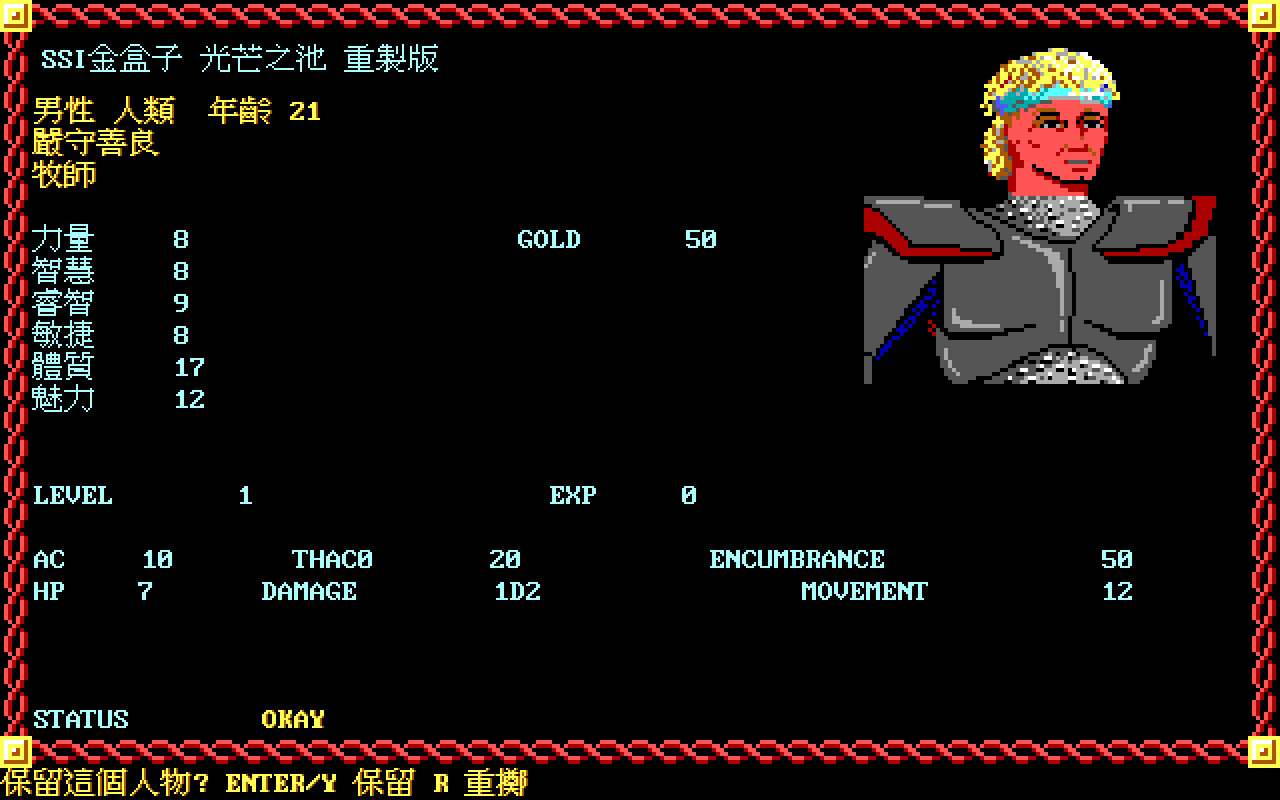
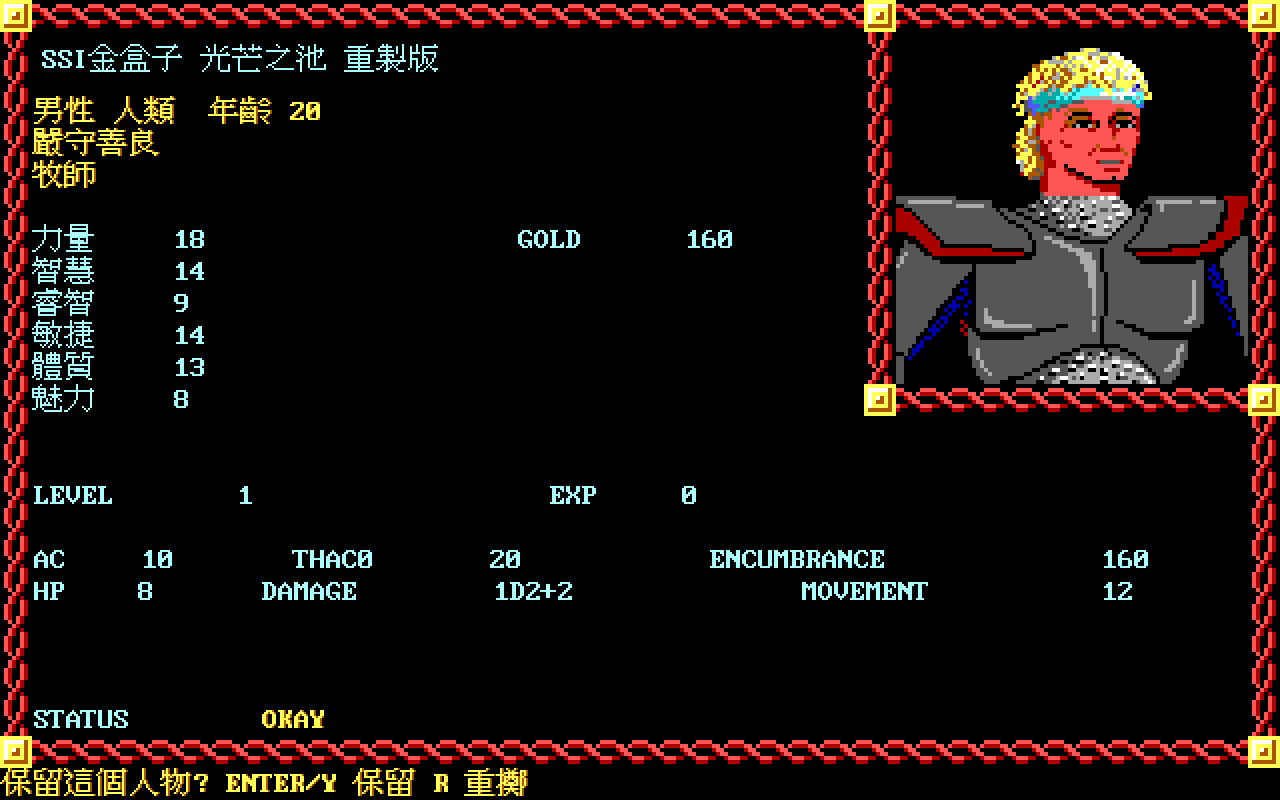
polish: restore original portrait frame

diff --git a/cmd/pool-game/portrait_frame_test.go b/cmd/pool-game/portrait_frame_test.go
@@ -1,0 +1,119 @@
+package main
+
+import (
+	"path/filepath"
+	"testing"
+
+	"github.com/hajimehoshi/ebiten/v2"
+	"github.com/wicanr2/Pool-of-Radiance-cht/internal/assets"
+	"github.com/wicanr2/Pool-of-Radiance-cht/internal/gamepack"
+	poolsave "github.com/wicanr2/Pool-of-Radiance-cht/internal/save"
+)
+
+// 原版人物資料頁的肖像框與整頁外框共用上、右兩邊；以下位置釘住新增的
+// 左、下兩邊及三個交點，避免只畫一個看似相近的素色矩形（spec 130）。
+func TestSheetPortraitFrameSymbolsMatchTheDOSShot(t *testing.T) {
+	zipPath := filepath.Join("..", "..", "Pool of Radiance (1988).zip")
+	_, band4, err := gamepack.ReadDOSGlobalSymbolBands(zipPath)
+	if err != nil {
+		t.Skipf("DOS ZIP unavailable: %v", err)
+	}
+	width := int(band4.WidthUnits) * 8
+	if width != frameTileSize || int(band4.ItemCount) <= frameHorizontalItem {
+		t.Fatalf("第 4 帶是 %d 寬、%d item，接不上肖像框", width, band4.ItemCount)
+	}
+	symbol := func(item int) []uint8 {
+		base := item * width * frameTileSize
+		return band4.Pixels[base : base+width*frameTileSize]
+	}
+	shot := filepath.Join("..", "..", "docs", "reference", "original-dos",
+		"character-flow", "14-character-sheet.png")
+	cases := []struct {
+		name        string
+		item        int
+		column, row int
+	}{
+		{"左上交點", frameCornerItem, sheetPortraitLeftTileCol, 0},
+		{"左緣第一格", frameVerticalItem, sheetPortraitLeftTileCol, 1},
+		{"左緣最後一格", frameVerticalItem, sheetPortraitLeftTileCol, sheetPortraitBottomTileRow - 1},
+		{"左下交點", frameCornerItem, sheetPortraitLeftTileCol, sheetPortraitBottomTileRow},
+		{"下緣第一格", frameHorizontalItem, sheetPortraitLeftTileCol + 1, sheetPortraitBottomTileRow},
+		{"下緣最後一格", frameHorizontalItem, sheetPortraitRightTileCol - 1, sheetPortraitBottomTileRow},
+		{"右下交點", frameCornerItem, sheetPortraitRightTileCol, sheetPortraitBottomTileRow},
+	}
+	for _, testCase := range cases {
+		want, err := cropDOSShot(shot, testCase.column*frameTileSize,
+			testCase.row*frameTileSize, frameTileSize, frameTileSize)
+		if err != nil {
+			t.Fatal(err)
+		}
+		got := symbol(testCase.item)
+		if diff := firstDifference(got, want); diff >= 0 {
+			t.Errorf("%s（item %#x）第 %d 格不同：素材 %d、截圖 %d\n%s",
+				testCase.name, testCase.item, diff, got[diff], want[diff],
+				sideBySide(got, want))
+		}
+	}
+}
+
+// 框內剛好是 88×88 native pixels；以 selector 兩端與兩種語言實際走共用
+// renderer，確保外框不因肖像組合或繁中欄位而改變幾何。
+func TestSheetPortraitFrameFitsSelectorExtremesInBothLanguages(t *testing.T) {
+	zipPath := filepath.Join("..", "..", "Pool of Radiance (1988).zip")
+	application, err := newApp(zipPath, filepath.Join(t.TempDir(), "state.json"))
+	if err != nil {
+		t.Skipf("DOS ZIP unavailable: %v", err)
+	}
+	if sheetPortraitLeft != (sheetPortraitLeftTileCol+1)*frameTileSize*2 ||
+		sheetPortraitTop != frameTileSize*2 ||
+		sheetPortraitLeft+88*2 != sheetPortraitRightTileCol*frameTileSize*2 ||
+		sheetPortraitTop+88*2 != sheetPortraitBottomTileRow*frameTileSize*2 {
+		t.Fatal("88×88 肖像內容沒有精確貼齊框內四邊")
+	}
+	member := poolsave.Character{Name: "HERO", RaceID: "human", GenderID: "male",
+		ClassID: "fighter", AlignmentID: "lawful-good", Age: 21,
+		Abilities: [6]int{16, 12, 11, 14, 13, 8}, MaxHP: 8, CurrentHP: 8,
+		PortraitHead: 1, PortraitBody: 1, IconSize: 1}
+	for _, selectors := range [][2]uint8{{1, 1}, {14, 12}} {
+		portrait, err := application.loadPortrait(selectors[0], selectors[1])
+		if err != nil {
+			t.Fatal(err)
+		}
+		if got := portrait.Bounds().Size(); got.X != 88 || got.Y != 88 {
+			t.Fatalf("肖像 %d/%d 尺寸 %v，預期 88×88", selectors[0], selectors[1], got)
+		}
+		member.PortraitHead, member.PortraitBody = selectors[0], selectors[1]
+		for _, lang := range []language{languageEnglish, languageTraditionalChinese} {
+			application.language = lang
+			skin := application.currentTheme()
+			screen := ebiten.NewImage(logicalWidth, logicalHeight)
+			screen.Fill(skin.background)
+			application.drawFrame(screen, skin.foreground, skin.accent)
+			drawSheetFor(screen, application, member, portrait, skin.foreground, skin.accent)
+		}
+	}
+}
+
+// 88×88 肖像必須放進框內的 native (224,8)..(311,95)，不是從框的左緣
+// (216,8) 起畫；後者會把圖往左挪八格，再被左框裁掉（spec 130）。
+func TestSheetPortraitPixelsMatchTheDOSInterior(t *testing.T) {
+	zipPath := filepath.Join("..", "..", "Pool of Radiance (1988).zip")
+	parts, err := assets.ReadCreationPortraitParts(zipPath, 1, 1)
+	if err != nil {
+		t.Skipf("DOS ZIP unavailable: %v", err)
+	}
+	portrait, err := assets.ComposeCreationPortrait(parts)
+	if err != nil {
+		t.Fatal(err)
+	}
+	shot := filepath.Join("..", "..", "docs", "reference", "original-dos",
+		"character-flow", "14-character-sheet.png")
+	want, err := cropDOSShot(shot, 224, 8, 88, 88)
+	if err != nil {
+		t.Fatal(err)
+	}
+	if diff := firstDifference(portrait.Pixels, want); diff >= 0 {
+		t.Fatalf("肖像內部第 %d 格不同：素材 %d、原版畫面 %d", diff,
+			portrait.Pixels[diff], want[diff])
+	}
+}

diff --git a/cmd/pool-game/screen_frame.go b/cmd/pool-game/screen_frame.go
@@ -41,6 +41,10 @@ const (
 	// combatBoardRightTileCol 是戰場框右邊那一欄；它右邊到畫面右框之間
 	// 是資訊欄。
 	combatBoardRightTileCol = 22
+	// 人物資料頁右上肖像框的左欄與下列（spec 130）。上緣、右緣沿用外框。
+	sheetPortraitLeftTileCol   = 27
+	sheetPortraitBottomTileRow = 12
+	sheetPortraitRightTileCol  = 39
 )
 
 // drawFrame 畫畫面外框。band 4 沒載進來（測試的假 app、或原版 ZIP 不在）
@@ -66,6 +70,28 @@ func (a *app) drawCombatFrame(screen *ebiten.Image, foreground, accent color.Col
 	}
 	put(frameCornerItem, combatBoardRightTileCol, 0)
 	put(frameCornerItem, combatBoardRightTileCol, combatBottomTileRow)
+}
+
+// drawSheetPortraitFrame 補人物資料頁右上肖像框的左緣與下緣。原版上緣、右緣
+// 就是整頁外框，所以只補三個交點與兩段繩索，不把框烘進肖像資產（spec 130）。
+func (a *app) drawSheetPortraitFrame(screen *ebiten.Image) {
+	if a == nil || a.symbolBand4.ItemCount <= frameHorizontalItem {
+		return
+	}
+	palette := a.artPalette()
+	scale := logicalWidth / 320
+	put := func(item, column, row int) {
+		a.drawSymbol(screen, item, column*frameTileSize*scale, row*frameTileSize*scale, scale, palette)
+	}
+	put(frameCornerItem, sheetPortraitLeftTileCol, 0)
+	for row := 1; row < sheetPortraitBottomTileRow; row++ {
+		put(frameVerticalItem, sheetPortraitLeftTileCol, row)
+	}
+	put(frameCornerItem, sheetPortraitLeftTileCol, sheetPortraitBottomTileRow)
+	for column := sheetPortraitLeftTileCol + 1; column < sheetPortraitRightTileCol; column++ {
+		put(frameHorizontalItem, column, sheetPortraitBottomTileRow)
+	}
+	put(frameCornerItem, sheetPortraitRightTileCol, sheetPortraitBottomTileRow)
 }
 
 func (a *app) drawFrameWithBottom(screen *ebiten.Image, bottomRow int,
@@ -160,4 +186,3 @@ func drawPlainFrame(screen *ebiten.Image, title string, foreground, accent color
 	}
 	drawText(screen, title, 18, 26, foreground)
 }
-

diff --git a/cmd/pool-game/character_sheet.go b/cmd/pool-game/character_sheet.go
@@ -163,8 +163,8 @@ const (
 	sheetMovementValue = 550
 	sheetStatusLine  = 366
 	sheetStatusValue = 130
-	// 肖像的左上角（native 216,8）。
-	sheetPortraitLeft = 432
+	// 肖像內容的左上角（native 224,8）；native x=216..223 是框的左緣。
+	sheetPortraitLeft = 448
 	sheetPortraitTop  = 16
 )
 
@@ -228,8 +228,8 @@ func drawSheetFor(screen *ebiten.Image, a *app, member poolsave.Character,
 	drawText(screen, a.text(msgSheetStatus), sheetLeft, sheetStatusLine, foreground)
 	drawText(screen, sheet.Status, sheetStatusValue, sheetStatusLine, accent)
 
-	// 右上角的肖像。原版那一張佔 native x 216..311、y 8..103，
-	// 兩倍之後從 (432,16) 起。
+	// 右上角的肖像內容是 native x 224..311、y 8..95；框另由
+	// drawSheetPortraitFrame 疊在 x 216..319、y 0..103（spec 130）。
 	if portrait == nil {
 		portrait = a.portrait
 	}
@@ -239,6 +239,7 @@ func drawSheetFor(screen *ebiten.Image, a *app, member poolsave.Character,
 		op.GeoM.Translate(sheetPortraitLeft, sheetPortraitTop)
 		screen.DrawImage(portrait, op)
 	}
+	a.drawSheetPortraitFrame(screen)
 }
 
 // rolledCharacter 把剛擲出來的數值包成一個角色，資料頁的那幾格才算得出來。

diff --git a/docs/spec/130-character-sheet-layout.md b/docs/spec/130-character-sheet-layout.md
@@ -2,7 +2,7 @@
 
 狀態：READY（每一行與每一欄的位置、九個欄位的內容、建角當下那幾個值的來源）；
 DRAFT（`STATUS` 除了 `OKAY` 以外的字、`VIEW` 從冒險畫面進來時那一頁多了什麼）。
-日期：2026-09-08。
+日期：2026-09-14。
 
 ## 輸入
 
@@ -40,7 +40,14 @@ DRAFT（`STATUS` 除了 `OKAY` 以外的字、`VIEW` 從冒險畫面進來時那
 | `MOVEMENT` | 200 | 275 |
 | `STATUS` | 9 | 65 |
 
-肖像佔 native x 216..311、y 8..103。最下面那一列
+肖像的 88×88 內容佔 native x 224..311、y 8..95。肖像框與整頁外框共用上緣
+y 0..7 與右緣 x 312..319；新增的左緣是 x 216..223、下緣是 y 96..103，
+三個交點與繩索同樣使用 `8X8D1.DAX` block 202 的 item 20／21／22。
+`cmd/pool-game/portrait_frame_test.go` 逐像素證明內容位置與七個框 tile；先前把
+「肖像加框的 96×104 區域」簡寫成「肖像 x 216..311、y 8..103」，會把 88×88
+資產誤放到 x=216 並漏畫框，現已勘誤。
+
+最下面那一列
 `KEEP THIS CHARACTER? YES NO` 在框外（native 192..198），與 spec 123 的
 指令列同一條。
 
@@ -61,6 +68,7 @@ DRAFT（`STATUS` 除了 `OKAY` 以外的字、`VIEW` 從冒險畫面進來時那
 1. 十三行與各欄位的 x 逐格對原版（native 座標乘二，基線再加倚天字型的
    ascent 14）。
 2. 九個欄位都算得出來，`AC` 與 `THAC0` 顯示的是值本身、不是內部值。
-3. 右上角有肖像；建角當下用預設那一張（`PortraitHead`／`Body` 都是 1）。
+3. 右上角有肖像與原版繩索框；建角當下用預設那一張
+   （`PortraitHead`／`Body` 都是 1）。88×88 內容不得侵入左、下框。
 4. 最下面那一列由這一頁自己畫，全域的 F-key 提示不畫——兩邊都畫會疊成一團。
 5. `docs/audit/dos-parity-sample.json` 的 `sheet` 外框比例不低於先前。

diff --git a/WORKLOG.md b/WORKLOG.md
@@ -274,3 +274,16 @@
   攻擊路徑消費固定骰流 `[20,2]`，並核對雙方 HP 與骰值消耗筆數。
 - 基礎武器攻擊沒有豁免步驟；沒有為湊欄位捏造一次豁免。豁免鏈仍由 spec 075 的
   原版反組譯、真實人物表與獨立測試負責。
+
+## 2026-09-14：#16 人物資料頁原版肖像框
+
+- dosgolem 原版收據確認肖像內容是 native `224,8` 起的 88×88；原版另外以
+  `8X8D1.DAX` block 202 item 20／21／22 畫框，左緣 `x=216..223`、下緣
+  `y=96..103`，上、右兩邊與整頁外框共用。
+- renderer 將內容由錯誤的 native x=216 移到 x=224，並用原始 symbol 與當前
+  `artPalette` 補左、下框，不修改人物資產。七個框 tile 與 selector 1／1 的
+  88×88 內容逐像素對原版；selector 1／1、14／12 以英文與繁中共四組走正式 renderer。
+- `v.1.1.6-20260914` AppImage 對拍通過：建角資料頁由 86.02% 升到 92.12%，
+  `VIEW` 資料頁由 86.25% 升到 92.35%，兩者框比例均由 98.39% 升到 100%。
+- 完整 `tools/go.sh test ./...`（`cmd/pool-game` 208.214 秒）與 `vet ./...` 通過；
+  可重生收據在 `docs/audit/portrait-frame-parity.json`，兩張更新後繁中畫面已入版控。
